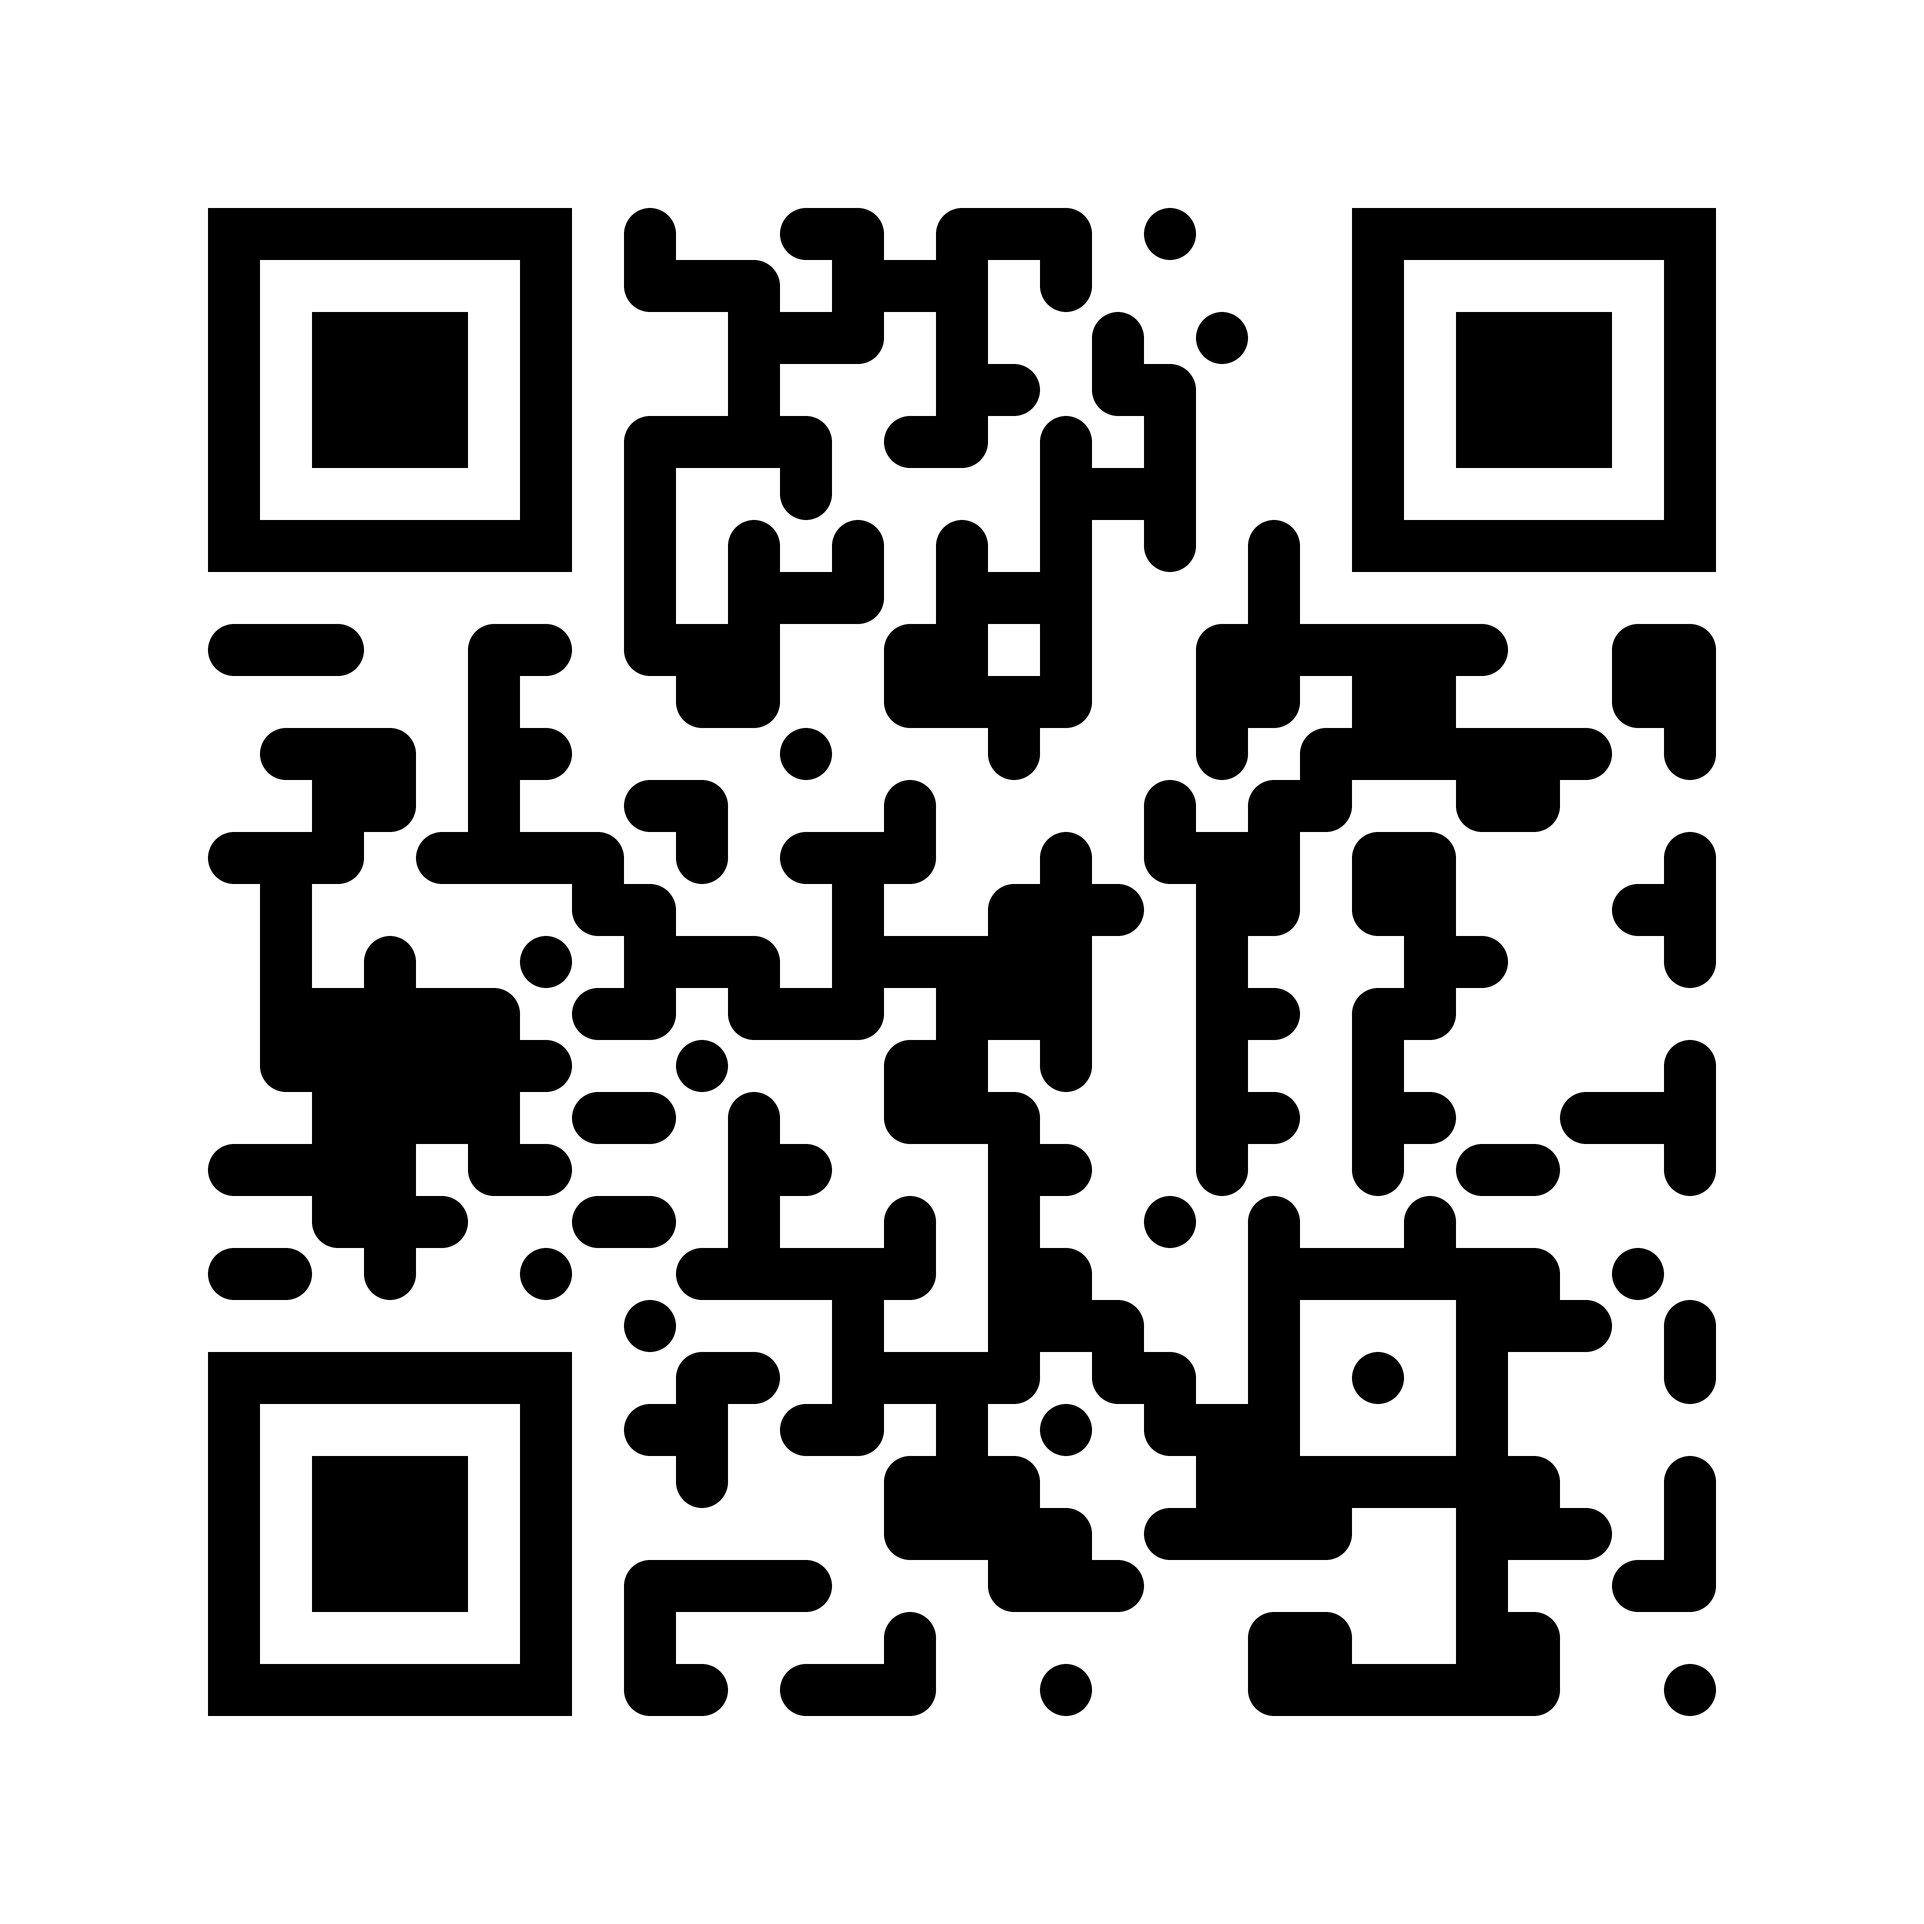
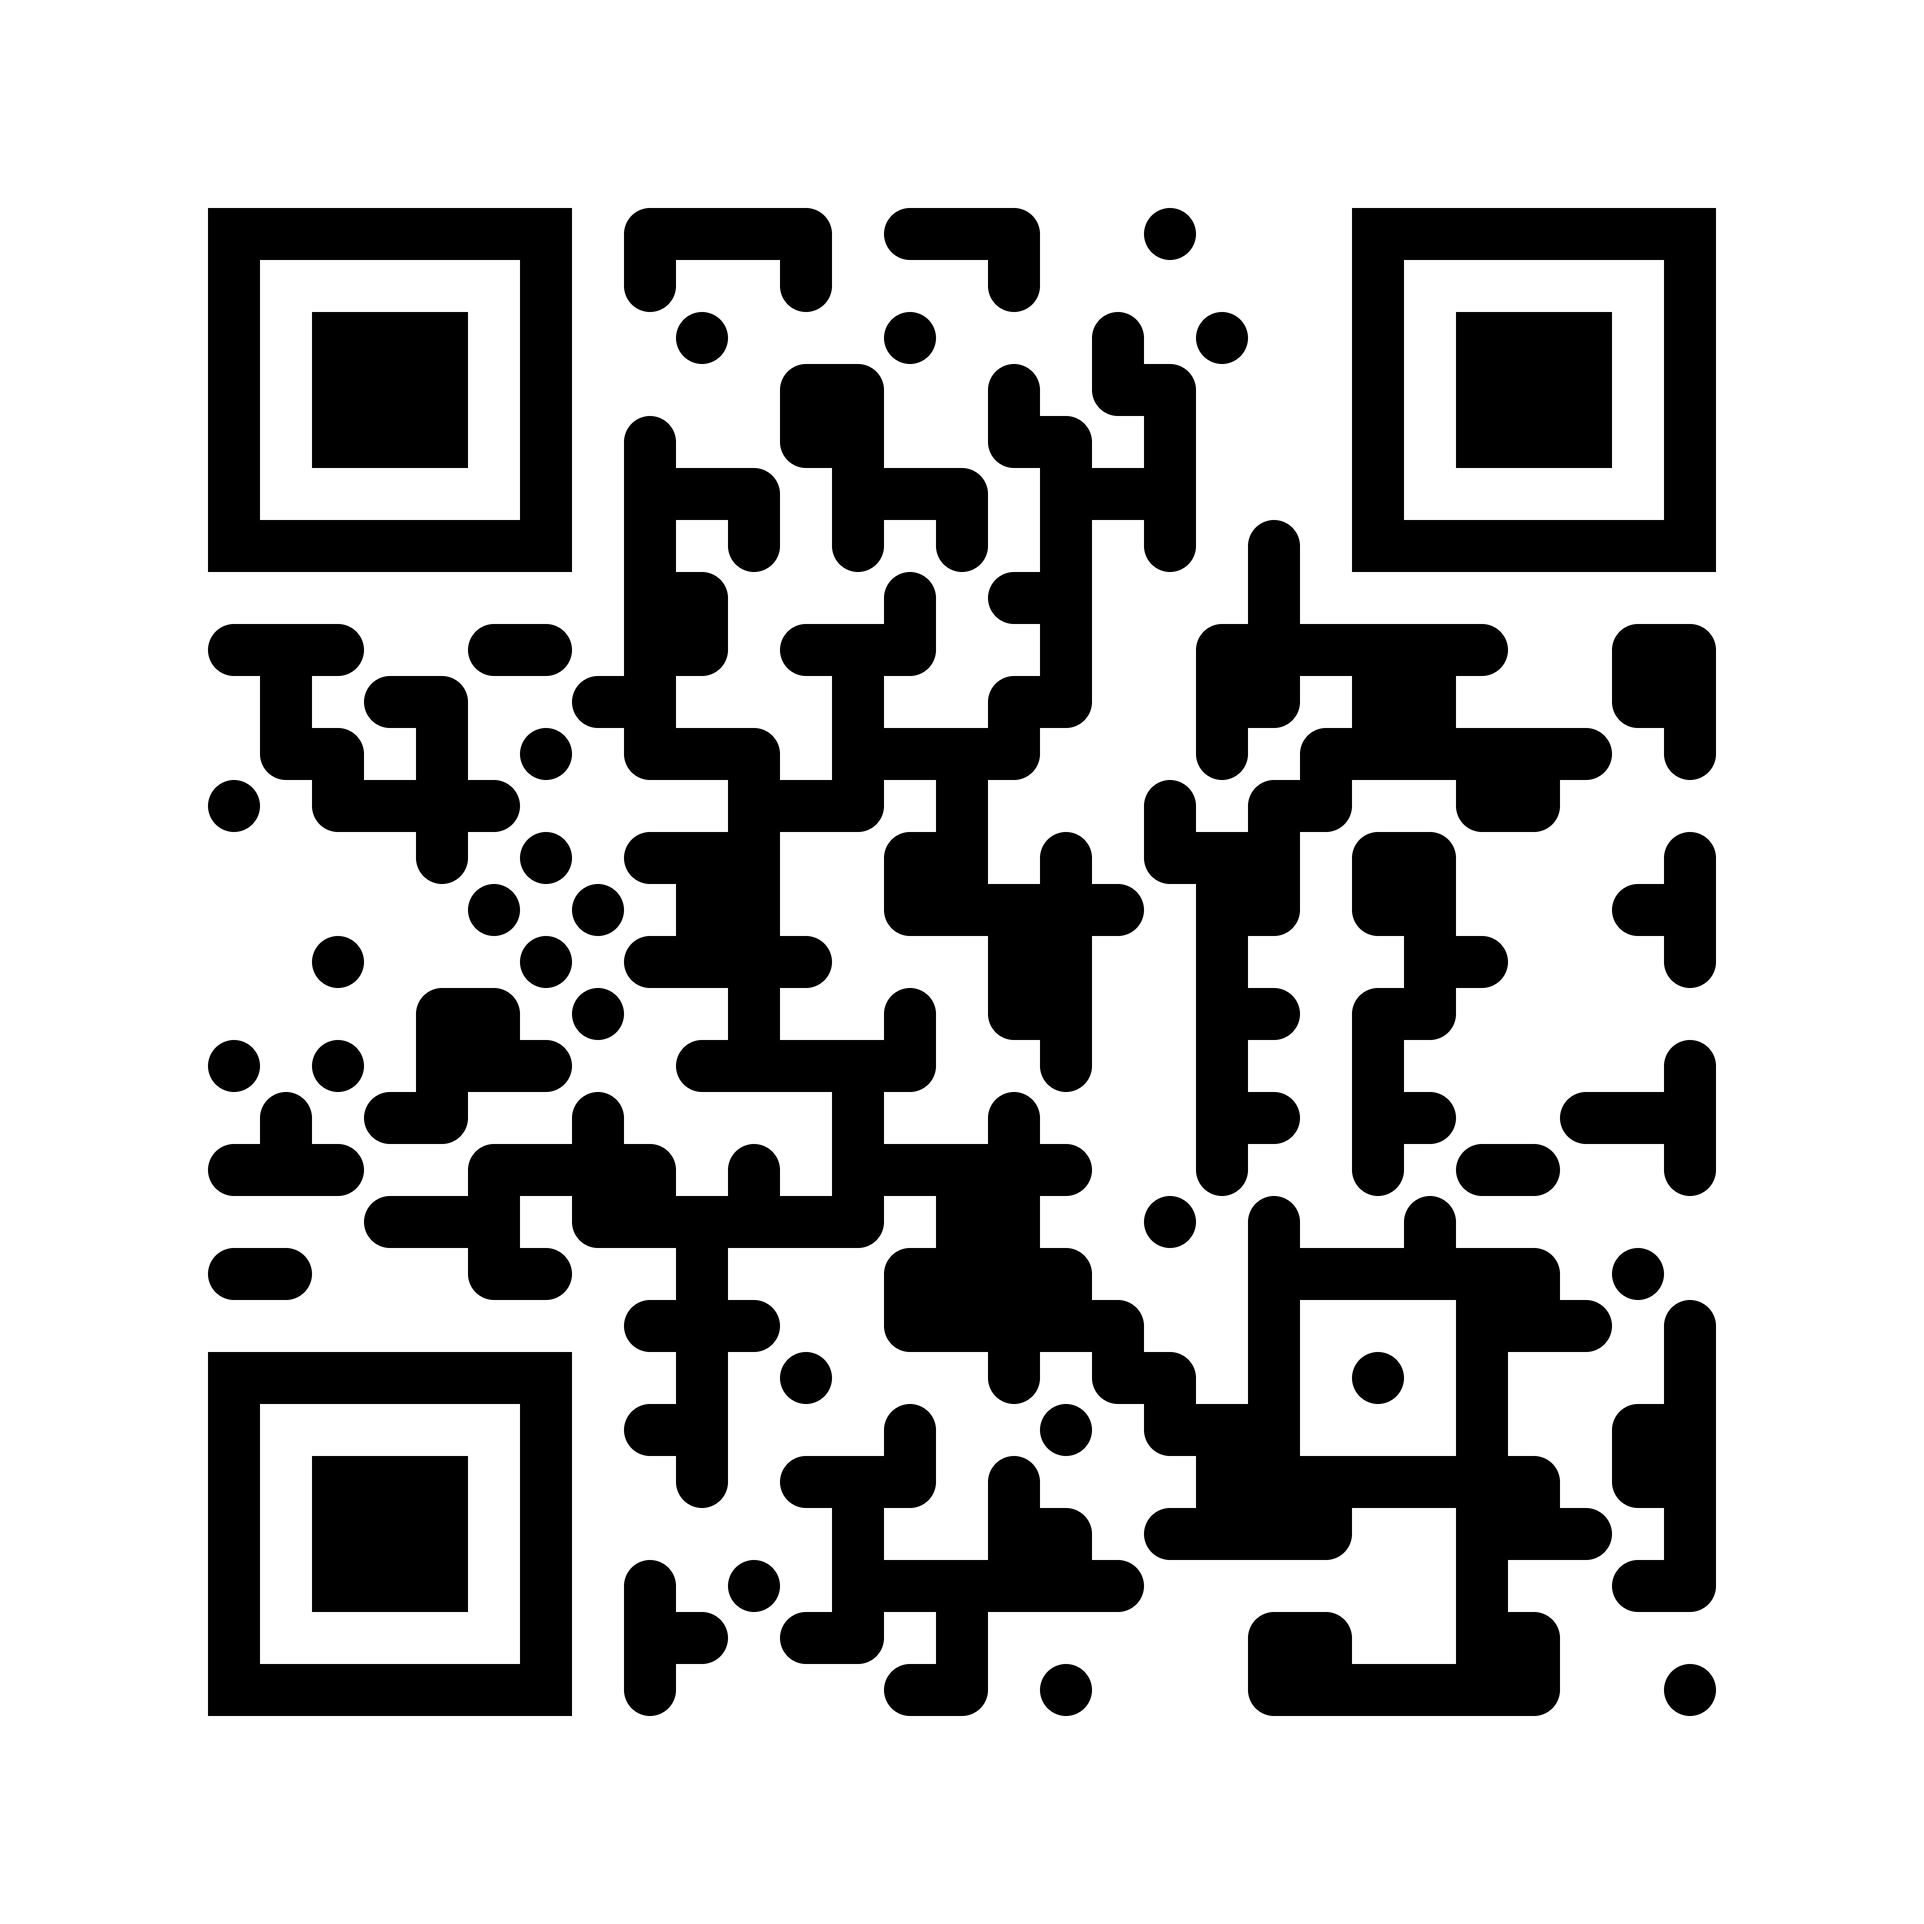
update

Changed region(s): [[0.0932, 0.0932, 0.5905, 0.9014], [0.8392, 0.7149, 0.9014, 0.8081]]

diff --git a/qr_codes/generate.py b/qr_codes/generate.py
@@ -43,7 +43,7 @@ def add_logo(logo_fpath: str, qr_code_fpath: str, ofpath: str):
     image.save(ofpath)
 
 generate_qr(
-    text='https://bethandtomwedding.github.io/',
+    text='https://bethandtomwedding.github.io',
     ofpath='qr_codes/qr_website.png',
 )
 add_logo(
